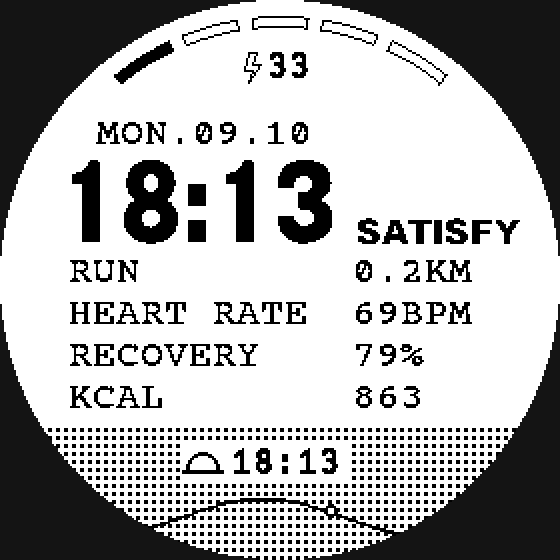
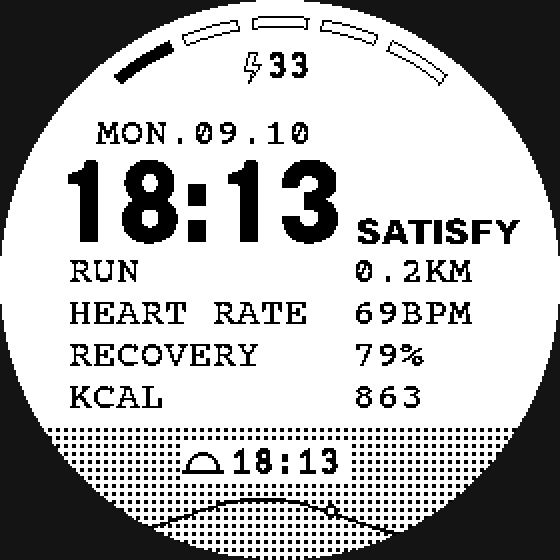
Time 4% wider (condense 0.82)

diff --git a/gen_fonts.py b/gen_fonts.py
@@ -135,7 +135,7 @@ def build(name, specs, out_prefix, tabular=False):
     return line_h
 
 # Fonts measured from typeface-7x_figma.svg:
-#   time           Public Sans wght 900, 56 px, condensed 0.79, tabular digits
+#   time           Public Sans wght 900, 56 px, condensed 0.82, tabular digits
 #   label          Archivo wght 800, 18 px
 #   battery, sun time  Courier Prime Bold 21 px condensed 0.88
 #   rows, date         Courier Prime Regular 20 px
@@ -149,7 +149,7 @@ UPPER = "ABCDEFGHIJKLMNOPQRSTUVWXYZ"
 
 public_sans = ImageFont.truetype("PublicSans.ttf", 56)
 public_sans.set_variation_by_axes([900])
-build("time",  [(public_sans, DIGITS + ":", 0.79, 0, False)], "time", tabular=True)
+build("time",  [(public_sans, DIGITS + ":", 0.82, 0, False)], "time", tabular=True)
 build("label", [(archivo(18, 800), UPPER + " ", 1.0, 0)], "label")
 build("bold",  [(ImageFont.truetype("CourierPrime-Bold.ttf", 21), DIGITS + ":-", 0.88, 2)], "bold")
 build("text",  [(ImageFont.truetype("CourierPrime-Regular.ttf", 20), UPPER + DIGITS + ".:%-+/ ", 1.0, 2)], "text")

diff --git a/gen_svg.py b/gen_svg.py
@@ -12,7 +12,7 @@ import math
 CX = CY = 140
 BATT_Y, DATE_Y, TIME_Y, SAT_Y = 22, 56, 67, 106
 BATT_X, DATE_X = 133, 48
-LABEL_X, COL2_X, SAT_X, TIME_X = 34, 176, 178, 28
+LABEL_X, COL2_X, SAT_X, TIME_X = 34, 176, 178, 26
 ROW_Y = [125, 146, 167, 188]
 BAND_Y = 214
 SEG_COUNT, SEG_LEN, SEG_END, SEG_GAP, SEG_R_OUT, SEG_R_IN = 5, 12.0, 14.0, 3.5, 131, 126
@@ -23,11 +23,11 @@ BATT = 33
 TEXT_BASE = 5 + 11    # Courier Prime Regular 20 (rows)
 DATE_BASE = 5 + 11    # Courier Prime Regular 20
 BOLD_BASE = 4 + 13    # Courier Prime Bold 21, condensed 0.88 (battery, sun time)
-TIME_BASE = 13 + 42   # Public Sans 900, 56, condensed 0.79
+TIME_BASE = 13 + 42   # Public Sans 900, 56, condensed 0.82
 LABEL_BASE = 4 + 12   # Archivo 800, 18
 TEXT_SX = 1.0
 BOLD_SX = 11 / 13
-TIME_SX = 0.79
+TIME_SX = 0.82
 
 def pt(a, r):
     return CX + r * math.cos(math.radians(a)), CY - r * math.sin(math.radians(a))

diff --git a/preview.py b/preview.py
@@ -56,7 +56,7 @@ BATT_X  = 133
 DATE_X  = 48
 DATE_Y  = 56
 TIME_Y  = 67
-TIME_X  = 28
+TIME_X  = 26
 COL2_X  = 176
 SAT_X   = 178
 SAT_Y   = 106
